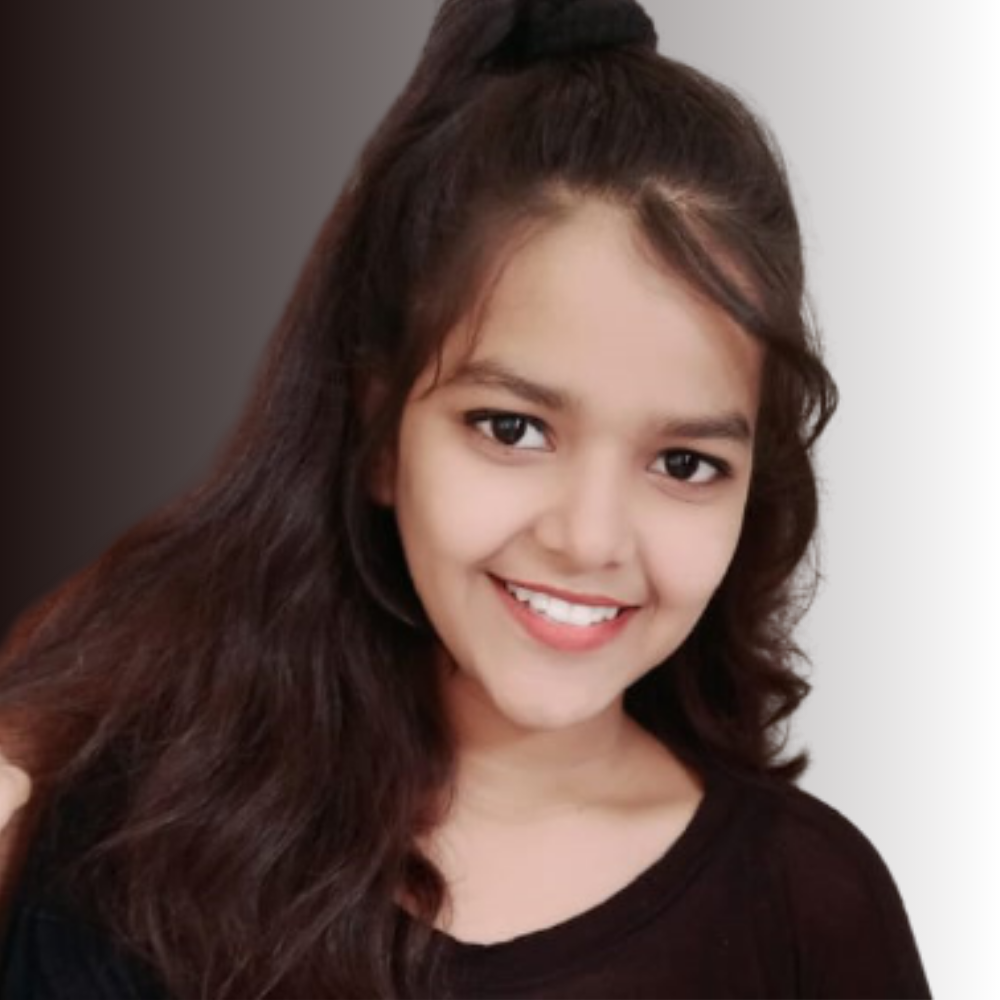
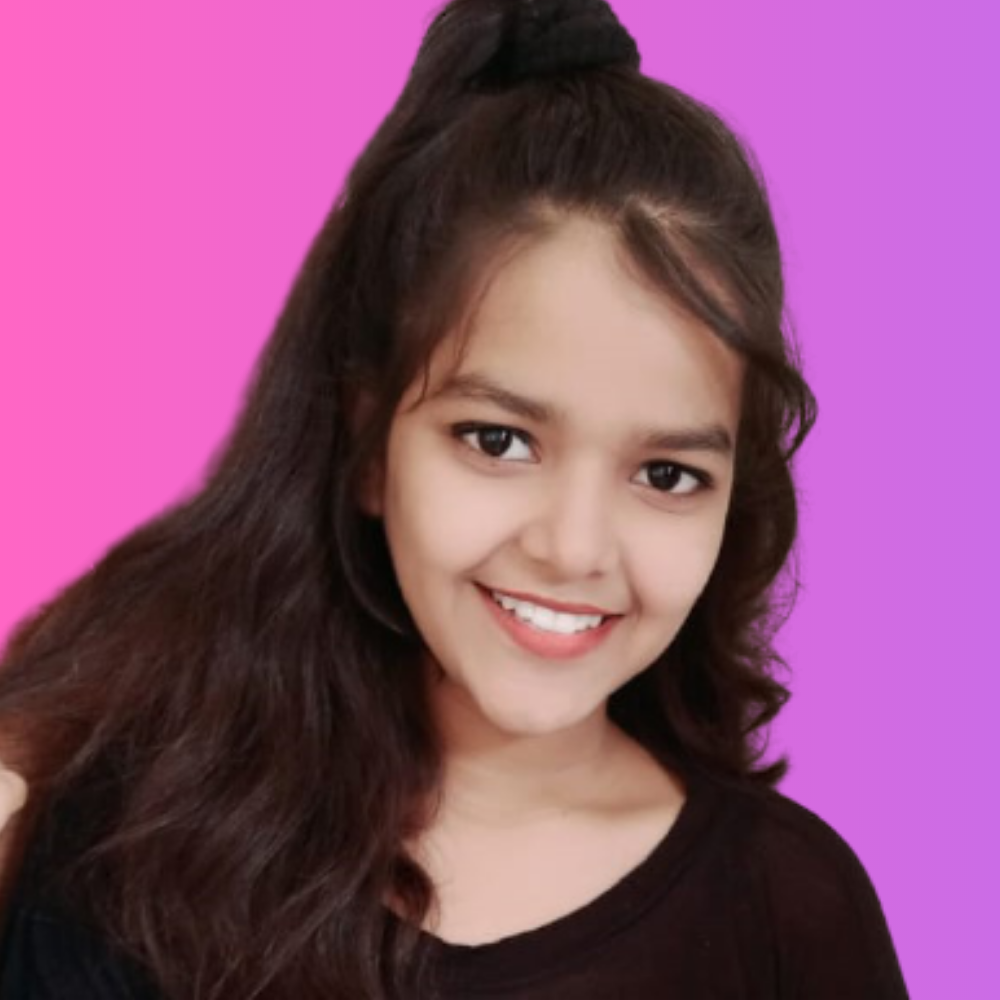
button styled

diff --git a/style.css b/style.css
@@ -48,7 +48,7 @@ a {
     margin-right: 20%;
     user-select: none;
     cursor: default;
-    background: -webkit-linear-gradient(#1f1312, #ffffff);
+    background: -webkit-linear-gradient(#ff66c4, #cb6ce6);
     -webkit-background-clip: text;
     -webkit-text-fill-color: transparent;
     font-size: 35px;
@@ -57,7 +57,7 @@ a {
 
 }
 .header .navbar .nav-menu .nav-item #home {
-  background: -webkit-linear-gradient(#1f1312, #ffffff);
+  background: -webkit-linear-gradient(#ff66c4, #cb6ce6);
   -webkit-background-clip: text;
   -webkit-text-fill-color: transparent;
 }
@@ -93,7 +93,7 @@ a {
 }
 
 .nav-link:hover{
-  background: -webkit-linear-gradient(#1f1312, #ffffff);
+  background: -webkit-linear-gradient(#ff66c4, #cb6ce6);
   -webkit-background-clip: text;
   -webkit-text-fill-color: transparent;
 }
@@ -155,7 +155,7 @@ align-items: flex-end;
 }
 .content .about  .name {
 
-  background: -webkit-linear-gradient(#1f1312, #ffffff);
+  background: -webkit-linear-gradient(#ff66c4, #cb6ce6);
   -webkit-background-clip: text;
   -webkit-text-fill-color: transparent;
   font-size: 80px;
@@ -187,14 +187,14 @@ align-items: flex-end;
 }
 .content .about #buttons .button1{
   border: 2px ;
-  background-image: linear-gradient(to right, #1f1312, #ffffff);
+  background-image: linear-gradient(to right, #ff66c4, #cb6ce6);
   color: white;
-  box-shadow: rgba(50, 50, 93, 0.25) 0px 50px 100px -20px, rgba(0, 0, 0, 0.3) 0px 30px 60px -30px, rgba(10, 37, 64, 0.35) 0px -2px 6px 0px inset;;
+  box-shadow: rgba(0, 0, 0, 0.1) 0px 20px 25px -5px, rgba(0, 0, 0, 0.04) 0px 10px 10px -5px;
 
 }
 .content .about #buttons .button1:hover{
   border: 2px solid;
-  border-image: linear-gradient(to right, #1f1312, #ffffff);
+  border-image: linear-gradient(to right, #ff66c4, #cb6ce6);
   background-image: linear-gradient(to right, #ffffff, #ffffff);
   text-decoration: underline;
   color: black;
@@ -202,13 +202,13 @@ align-items: flex-end;
 }
 .content .about #buttons .button2{
 margin-left: 3%;
-border-image: linear-gradient(to right, #1f1312, #ffffff);
+border-image: linear-gradient(to right, #ff66c4, #cb6ce6);
 background-image: linear-gradient(to right, #ffffff, #ffffff);
- box-shadow: rgba(50, 50, 93, 0.25) 0px 50px 100px -20px, rgba(0, 0, 0, 0.3) 0px 30px 60px -30px, rgba(10, 37, 64, 0.35) 0px -2px 6px 0px inset;
+box-shadow: rgba(0, 0, 0, 0.1) 0px 20px 25px -5px, rgba(0, 0, 0, 0.04) 0px 10px 10px -5px;
 } 
 .content .about #buttons .button2:hover{
   text-decoration: underline;
-  background-image: linear-gradient(to right, #1f1312, #ffffff);
+  background-image: linear-gradient(to right, #ff66c4, #cb6ce6);
   color: white;
 }
 
@@ -347,15 +347,12 @@ font-family: -apple-system, BlinkMacSystemFont, 'Segoe UI', Roboto, Oxygen, Ubun
   justify-content: center;
   align-items: center;
   margin-bottom: 10%;
-
- 
-  /* background-color: rgb(202, 198, 198); */
 }
-
 #contact img {
+  border-image:  linear-gradient(to right, #1f1312, #cb6ce6);
   margin-top: 4%;
-  height: 200px;
-  width: 200px;
+  height: 300px;
+  width: 300px;
   clip-path: circle();
 }
 #contact .contact-icon {
@@ -367,13 +364,15 @@ color: black;
 opacity: 0.6;
 }
 #contact .contact-icon a:hover{
-  background: -webkit-linear-gradient(#1f1312, #ffffff);
+  background: -webkit-linear-gradient(#1f1312, #cb6ce6);
   -webkit-background-clip: text;
   -webkit-text-fill-color: transparent;
  
  
 }
 
+/* --------MEDIA QUERY---------- */
+/* ----------------------------- */
 
 
 @media (max-width: 668px) {

diff --git a/index.html b/index.html
@@ -23,7 +23,14 @@
 </head>
 
 <body>
-  <!-- NAV -->
+
+
+
+
+
+
+  <!------------- NAV -------------------->
+  <!-- ----------------------------------->
   <header class="header">
     <nav class="navbar">
       <a href="#" class="nav-logo"><img src="profile_pic.png" alt="profile"></a>
@@ -59,15 +66,21 @@
   </header>
 
 
-  <!-- ABOUT -->
+
+
+
+
+
+
+  <!-------------CONTENT------------------>
+  <!------------------------------------->
   <br />
-
-
   <div class="content">
 
     <div class="about">
       <h1>Hi <br /><span class="name">I'm AYUSHI</span><br /><br />
-        <span class="txt-rotate" data-period="2000" data-rotate='[ "DEVELOPER BY NIGHT","ENGINEER BY DAY" ]'></span>
+        <span class="txt-rotate" data-period="2000" data-rotate='[ "DEVELOPER BY NIGHT","ENGINEER BY DAY" ]'>
+        </span>
       </h1>
       <p id="buttons">
         <button class="button1">HIRE ME</button>
@@ -81,7 +94,6 @@
         src="https://creazilla-store.fra1.digitaloceanspaces.com/cliparts/7837/student-working-with-her-laptop-clipart-xl.png"
         alt="vector-img" class="image" />
     </div>
-
 
   </div>
   <div id="intro">
@@ -100,7 +112,12 @@
     </div>
   </div>
 
-  <!-- SKILLS -->
+
+
+
+
+  <!------------- SKILLS------------------>
+  <!--------------------------------------->
   <div id="skills">
 
     <h1>My Skills</h1>
@@ -110,7 +127,13 @@
       <a><i id="react" class="fab fa-react"></i></a>
     </div>
   </div>
-  <!-- PROJECTS -->
+
+
+
+
+
+  <!------------PROJECTS------------------>
+  <!-------------------------------------->
   <div id="projects">
 
     <h1> My Projects</h1>
@@ -121,7 +144,13 @@
         alt="vector-img" />
     </div>
   </div>
-  <!-- BLOG -->
+
+
+
+
+
+  <!------------- BLOGS------------------->
+  <!-------------------------------------->
   <div id="blogs">
 
     <h1>My Blogs</h1>
@@ -132,8 +161,13 @@
       <p>Coming Soon..</p>
     </div>
   </div>
-  <!-- CONTACT -->
 
+
+
+
+
+  <!------------- CONTACT --------------->
+  <!-------------------------------------->
   <div id="contact">
     <h1> My Contact</h1>
     <img src="profile_pic.png" alt="profile-pic" />
@@ -157,6 +191,12 @@
     </div>
   </div>
 
+
+
+
+
+  <!------------- JAVASCRIPT -------------------->
+  <!-------------------------------------------->
   <script>
 
     const hamburger = document.querySelector(".hamburger");
